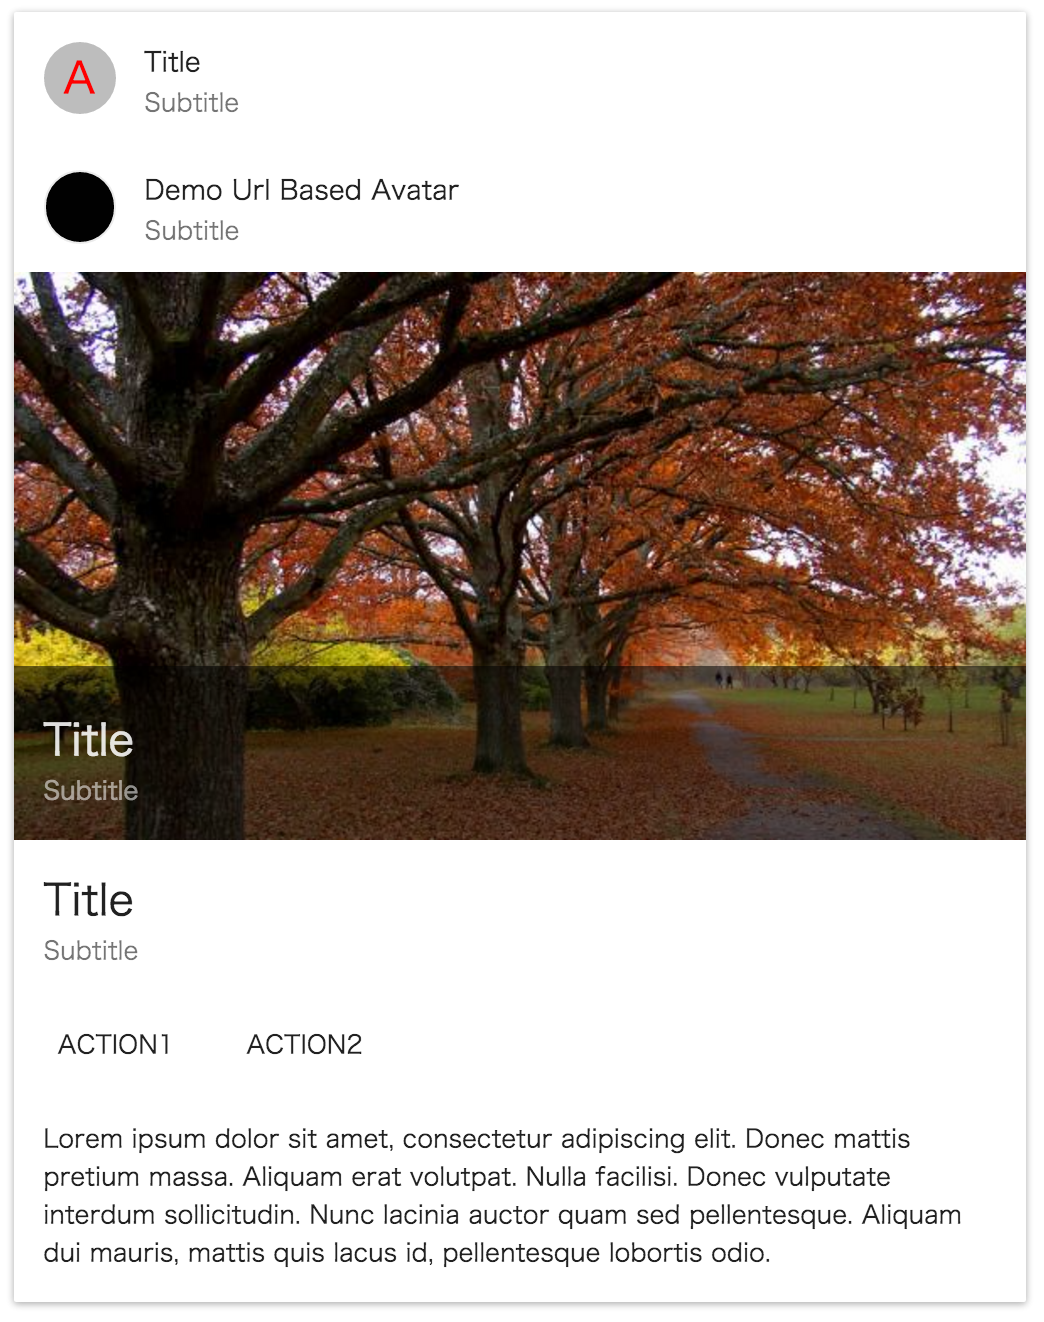
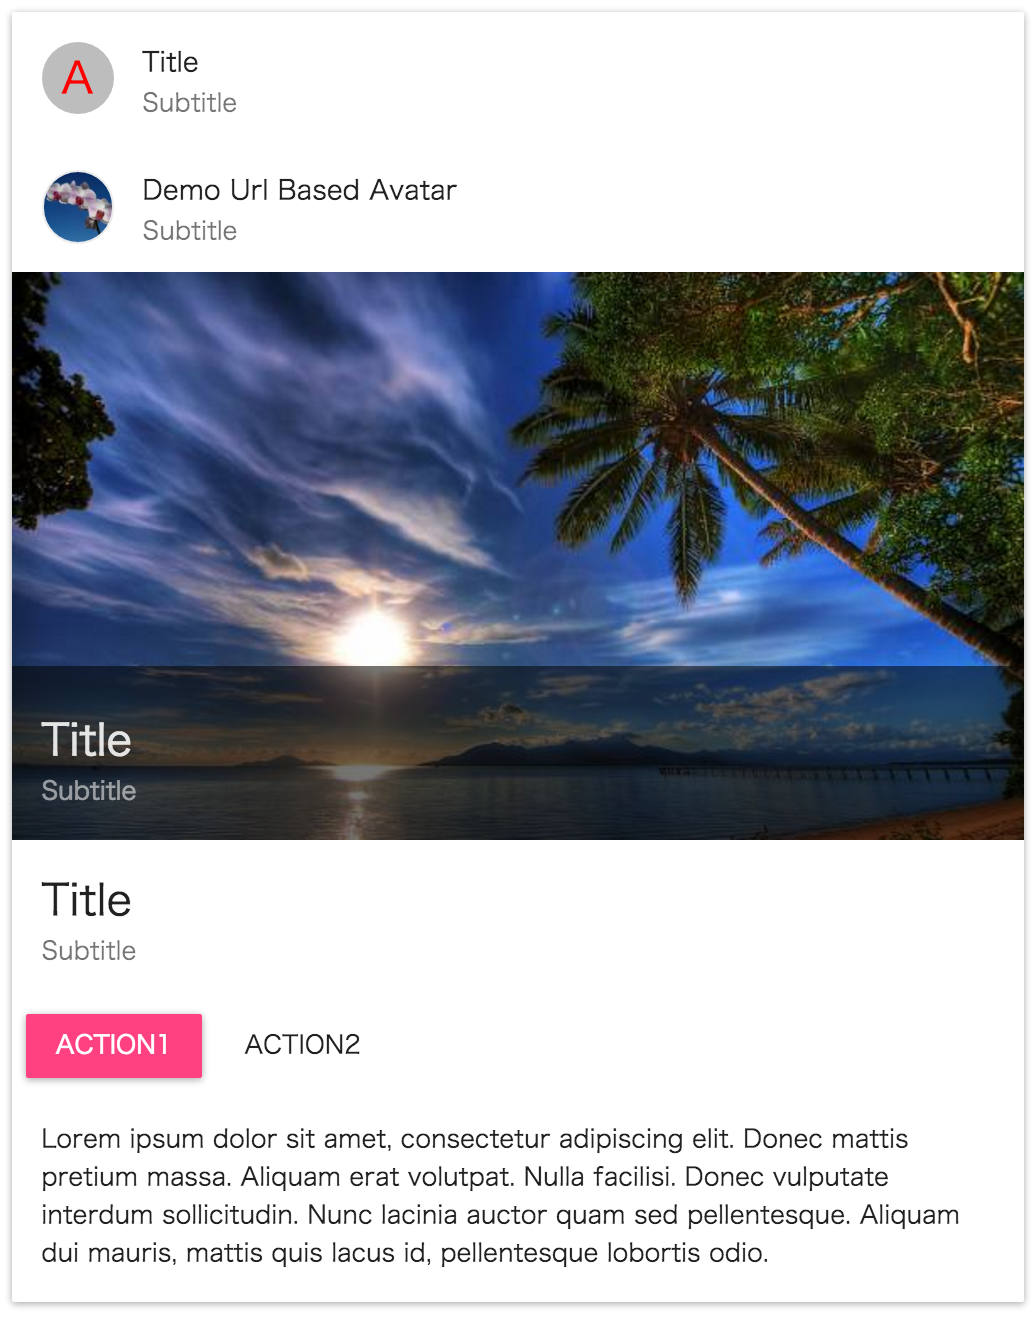
Use RaisedButton as example in material-ui

diff --git a/content/post/material-ui.md b/content/post/material-ui.md
@@ -67,7 +67,7 @@ injectTapEventPlugin();
 import {
   Avatar, Card, CardActions,
   CardHeader, CardMedia, CardTitle,
-  FlatButton, CardText
+  RaisedButton, FlatButton, CardText
 } from 'material-ui';
 
 class App extends Component {
@@ -87,7 +87,7 @@ class App extends Component {
         </CardMedia>
         <CardTitle title="Title" subtitle="Subtitle"/>
         <CardActions>
-          <FlatButton label="Action1"/>
+          <RaisedButton primary={true} label="Action1"/>
           <FlatButton label="Action2"/>
         </CardActions>
         <CardText>
